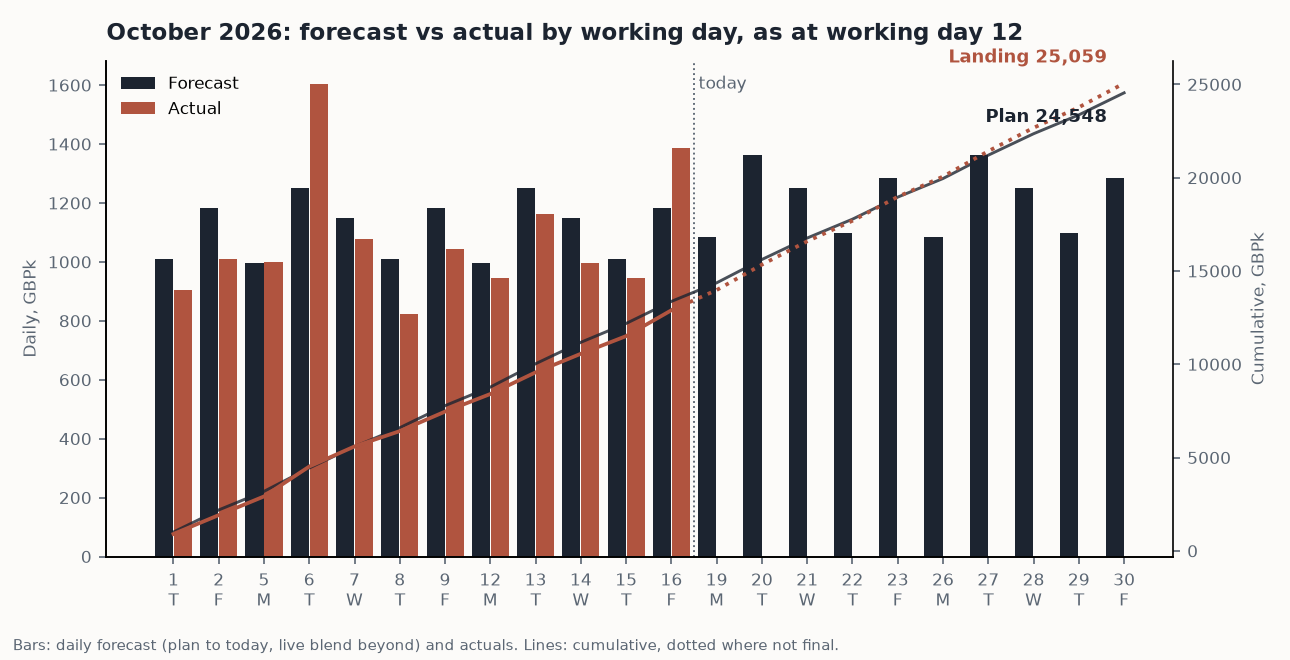
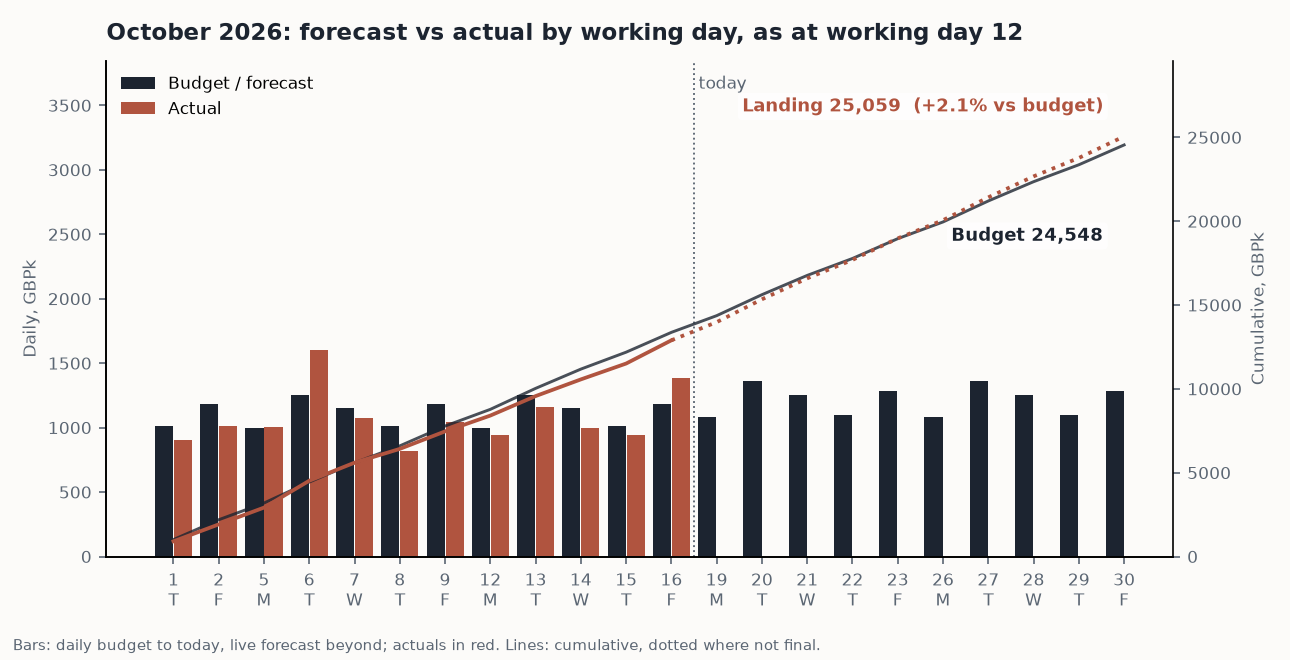
Budget terminology: the fixed line is the budget, landing labelled with variance vs budget
Smaller bars so the cumulative lines read; labels boxed on white and
kept clear of the lines and each other.

diff --git a/month_landing.py b/month_landing.py
@@ -358,10 +358,13 @@ def month_chart(actuals, y, m, today_wd):
     fig.patch.set_facecolor(BG)
     ax.set_facecolor(BG)
     xs = np.arange(n)
-    ax.bar(xs - 0.21, fc_bars, width=0.4, color=INK, label="Forecast")
+    ax.bar(xs - 0.21, fc_bars, width=0.4, color=INK, label="Budget / forecast")
     ax.bar(xs[:today_wd] + 0.21, actual, width=0.4, color=SECOND, label="Actual")
+    # bars compressed into the lower half so the cumulative lines read clearly
+    bar_top = float(max(fc_bars.max(), actual.max())) * 2.4
+    ax.set_ylim(0, bar_top)
     ax.axvline(today_wd - 0.5, color=MUTED, linewidth=0.9, linestyle=":")
-    ax.text(today_wd - 0.4, ax.get_ylim()[1] * 0.97, "today", fontsize=8,
+    ax.text(today_wd - 0.4, bar_top * 0.97, "today", fontsize=8,
             color=MUTED, va="top")
     for side in ("top", "right"):
         ax.spines[side].set_visible(False)
@@ -380,12 +383,20 @@ def month_chart(actuals, y, m, today_wd):
     ax2.plot(xs[:today_wd], cum_act, color=SECOND, linewidth=1.8)
     ax2.plot(xs[today_wd - 1:], cum_live[today_wd - 1:], color=SECOND,
              linewidth=1.8, linestyle=":")
-    ax2.annotate(f"Landing {cum_live[-1]:,.0f}", xy=(n - 1, cum_live[-1]),
-                 xytext=(-8, 10), textcoords="offset points", ha="right",
-                 fontsize=8.5, color=SECOND, fontweight="bold")
-    ax2.annotate(f"Plan {cum_plan[-1]:,.0f}", xy=(n - 1, cum_plan[-1]),
-                 xytext=(-8, -14), textcoords="offset points", ha="right",
-                 fontsize=8.5, color=INK, fontweight="bold")
+    box = dict(facecolor="white", alpha=0.75, edgecolor="none",
+               boxstyle="round,pad=0.25")
+    hi = cum_live[-1] >= cum_plan[-1]
+    var = cum_live[-1] / cum_plan[-1] - 1
+    ax2.annotate(f"Landing {cum_live[-1]:,.0f}  ({var:+.1%} vs budget)",
+                 xy=(n - 1, cum_live[-1]),
+                 xytext=(-10, 12 if hi else -46), textcoords="offset points",
+                 ha="right", fontsize=8.5, color=SECOND, fontweight="bold",
+                 bbox=box)
+    ax2.annotate(f"Budget {cum_plan[-1]:,.0f}", xy=(n - 1, cum_plan[-1]),
+                 xytext=(-10, -46 if hi else 12), textcoords="offset points",
+                 ha="right", fontsize=8.5, color=INK, fontweight="bold",
+                 bbox=box)
+    ax2.set_ylim(0, float(max(cum_live[-1], cum_plan[-1])) * 1.18)
     ax2.set_ylabel("Cumulative, GBPk", fontsize=8, color=MUTED)
     ax2.tick_params(colors=MUTED, labelsize=8)
 
@@ -393,8 +404,8 @@ def month_chart(actuals, y, m, today_wd):
                  f"as at working day {today_wd}",
                  loc="left", fontsize=11, color=INK, fontweight="bold", pad=10)
     ax.legend(loc="upper left", frameon=False, fontsize=8)
-    fig.text(0.01, 0.015, "Bars: daily forecast (plan to today, live blend "
-             "beyond) and actuals. Lines: cumulative, dotted where not final.",
+    fig.text(0.01, 0.015, "Bars: daily budget to today, live forecast beyond; "
+             "actuals in red. Lines: cumulative, dotted where not final.",
              fontsize=7, color=MUTED)
     fig.tight_layout(rect=(0, 0.04, 1, 1))
     fig.savefig("outputs/month_view.png", facecolor=BG)

diff --git a/README.md b/README.md
@@ -33,7 +33,8 @@ weighted by how much of the month has been seen.
    the rate per weighted day, then priced by the month's own composition:
    how many of which weekdays actually fall in it, net of holidays. Two
    Februaries with the same seasonality can still differ, and this is
-   where the difference lives.
+   where the difference lives. In the original this pre-month number was
+   the budget, and the month view reads ahead-or-behind against it.
 3. **The pacing curve.** From the trailing six completed months, the
    cumulative share of a month normally landed by each point in it - with
    "point in it" measured in weighted days, not elapsed days. Months load
@@ -51,7 +52,7 @@ weighted by how much of the month has been seen.
 Walk-forward over 34 synthetic months (2024-01 to 2026-10), every working
 day, all units summed. Median absolute percentage error by point in month:
 
-| Elapsed | Blend | Pacing alone | Run-rate | Held forecast |
+| Elapsed | Blend | Pacing alone | Run-rate | Held budget |
 |---|---|---|---|---|
 | 20% | 3.7% | 7.2% | 11.5% | 4.7% |
 | 40% | 3.4% | 5.8% | 8.6% | 4.9% |
@@ -85,11 +86,14 @@ how it is pacing; it says nothing about why.
 
 ![Month view](outputs/month_view.png)
 
-The operational picture: daily forecast and actual bars by working day,
-cumulative lines on the secondary axis, and the cumulative line drawn
-dotted from today onward because those numbers are not final yet. In the
-sample month the pace is running ahead of plan and the landing is called
-up accordingly - the strong month not under-called, drawn.
+The operational picture, and the question it exists to answer: ahead of
+budget, or behind? Daily budget and actual bars by working day, cumulative
+lines on the secondary axis, the cumulative line drawn dotted from today
+onward because those numbers are not final yet, and the landing labelled
+with its variance to budget. Actuals and forecast combine into one
+reading: in the sample month the pace is running ahead and the landing is
+called up to +2.1% against budget - the strong month not under-called,
+drawn.
 
 ## The daily table
 
